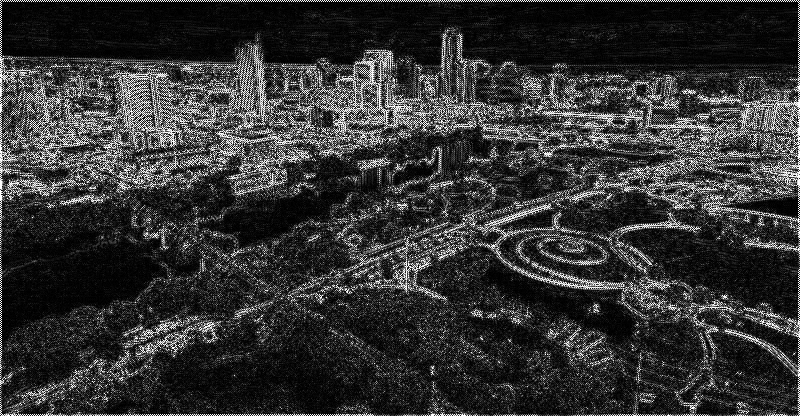
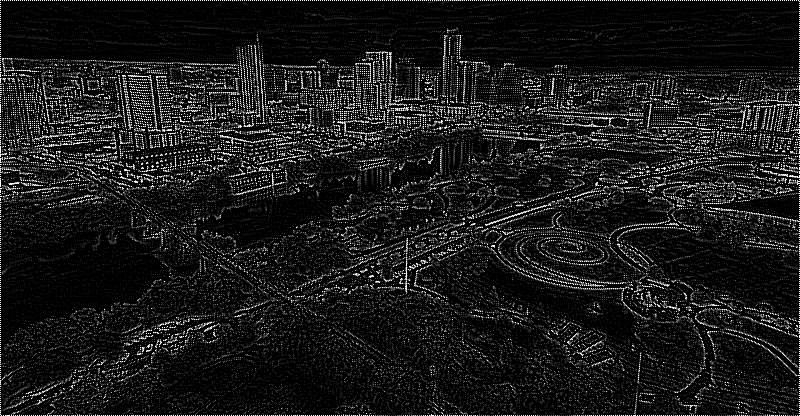
b

diff --git a/Lab05.py b/Lab05.py
@@ -45,12 +45,12 @@ def getPixelsInterpolation(img):
 def highlightEdges(img, img_name, ksize):
     # laplaceMask = cv2.Laplacian(img, cv2.CV_64F, ksize=ksize)
     laplaceMask = cv2.Laplacian(img, cv2.CV_16S, ksize=ksize)
-    abs_dst = cv2.convertScaleAbs(laplaceMask)
+    # abs_dst = cv2.convertScaleAbs(laplaceMask)
     # laplaceMask = np.uint8(np.absolute(laplaceMask))
 
-    plt.imshow(abs_dst, cmap='gray')
+    plt.imshow(laplaceMask, cmap='gray')
     plt.show()
-    cv2.imwrite(img_name, abs_dst)
+    cv2.imwrite(img_name, laplaceMask)
 
     height, width = img.shape[:2]
 
@@ -70,6 +70,8 @@ def main():
     # plt.imshow(img, cmap='gray')
     # plt.show()
     img = getPixelsInterpolation(img)
+
+    img = cv2.cvtColor(img, cv2.COLOR_GRAY2RGB)
     # plt.imshow(img, cmap='gray')
     # plt.show()
     highlightEdges(img, 'exampleLaplace.png', 3)
